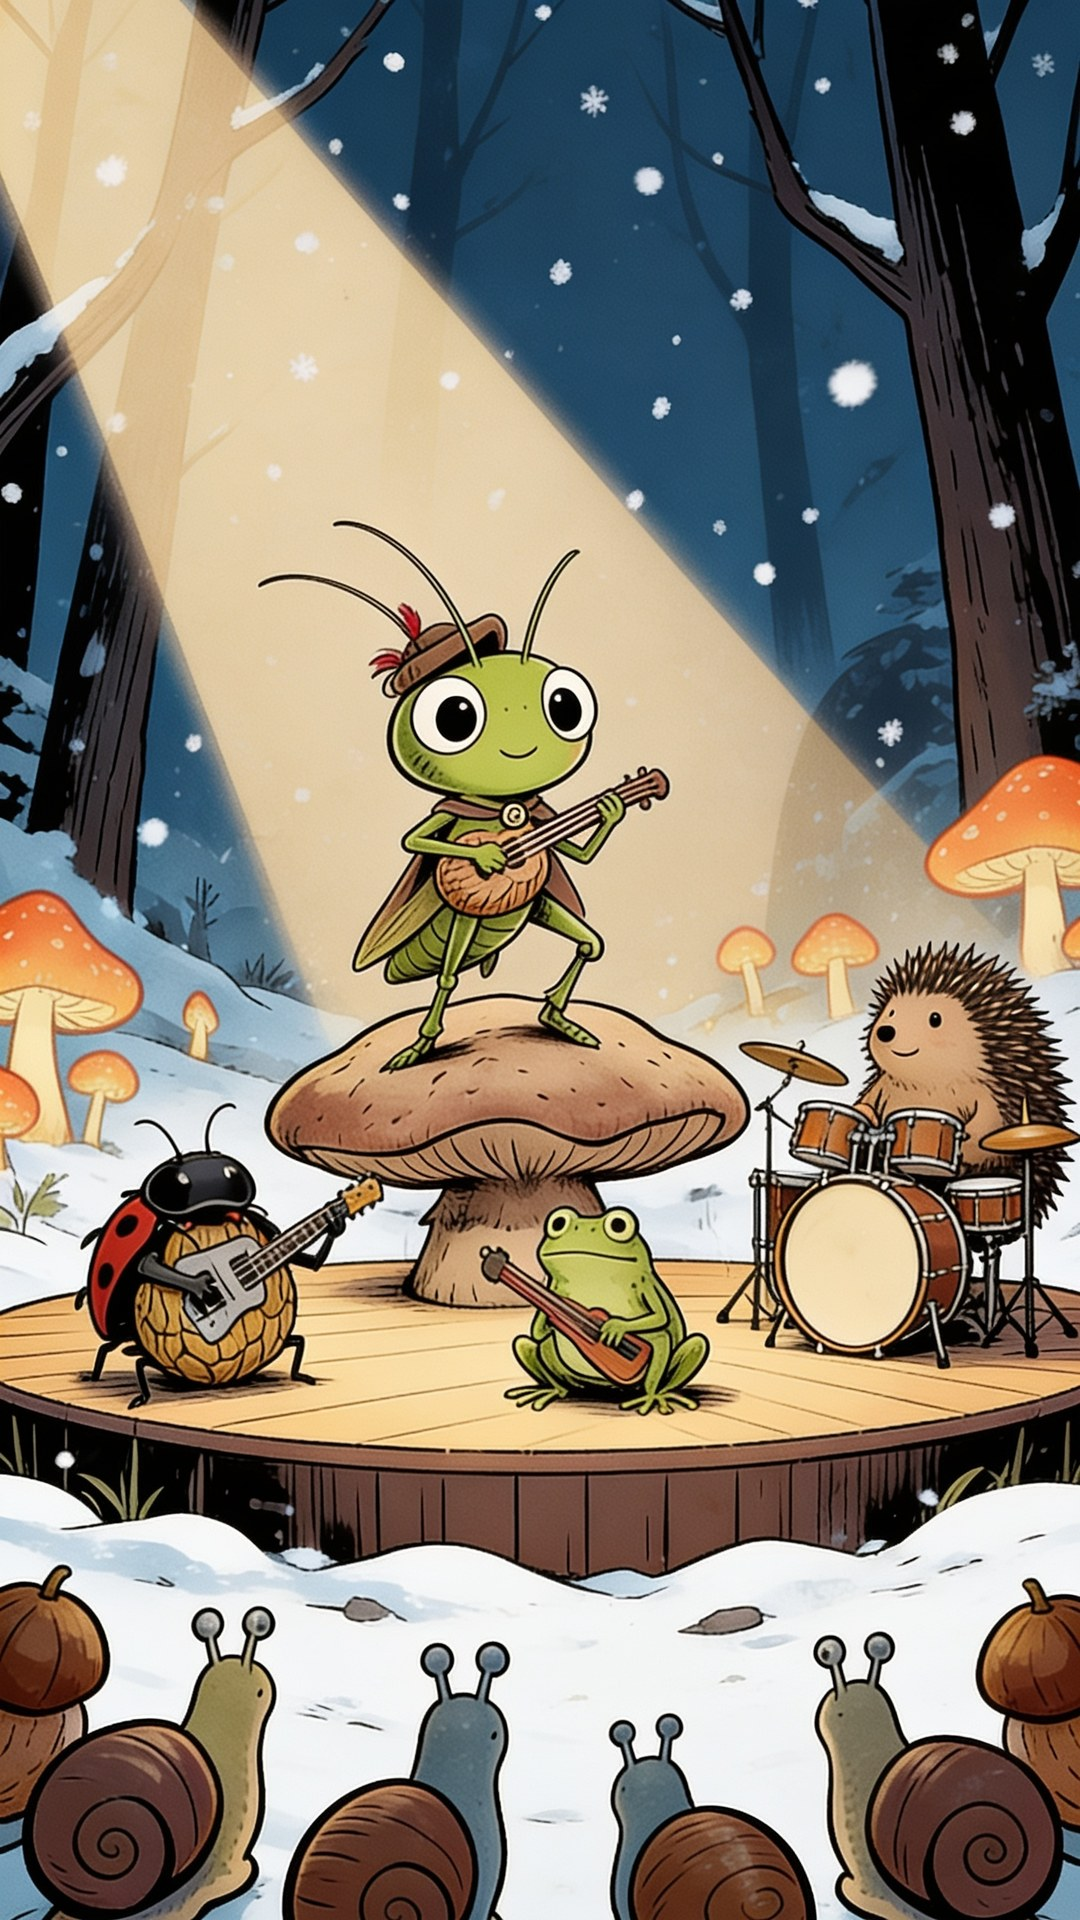
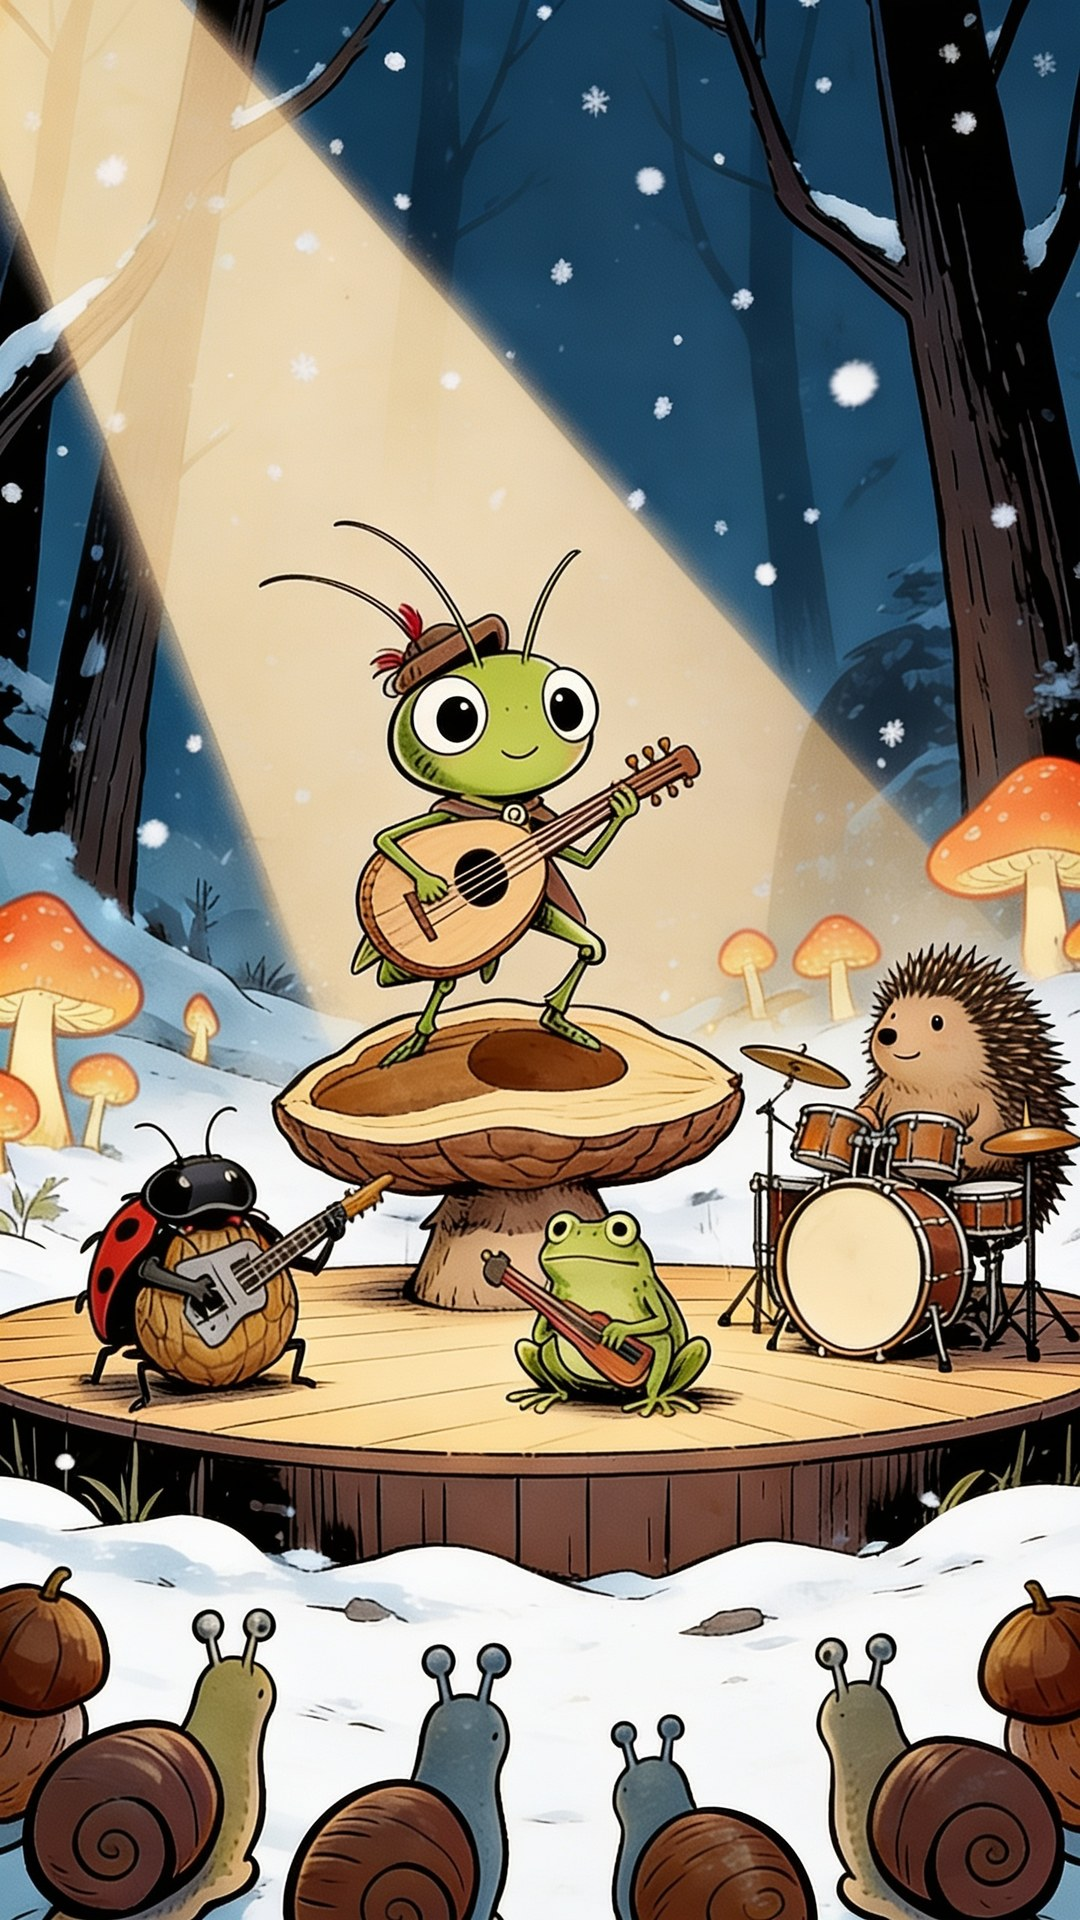
Quest 24: Zirpia Laute: 6 Bilder korrigiert
Claude-Session: https://claude.ai/code/session_013ksHH1RN3knNHjnsFznGtM

diff --git a/index.html b/index.html
@@ -9,7 +9,7 @@
 <meta name="robots" content="noindex">
 <link rel="preconnect" href="https://fonts.googleapis.com"><link rel="preconnect" href="https://fonts.gstatic.com" crossorigin>
 <link href="https://fonts.googleapis.com/css2?family=Grenze+Gotisch:wght@500;700;800&family=Alegreya:ital,wght@0,400;0,500;0,700;1,400&family=Alegreya+SC:wght@500;700&display=swap" rel="stylesheet">
-<link rel="stylesheet" href="style.css?v=1794149832">
+<link rel="stylesheet" href="style.css?v=1794151930">
 </head>
 <body>
 
@@ -59,25 +59,25 @@
 <div id="sheet" class="ovl sheet"></div>
 <div id="toast" class="toast"></div>
 
-<script src="gate.js?v=1794149832"></script>
-<script src="engine.js?v=1794149832"></script>
-<script src="scene.js?v=1794149832"></script>
-<script src="dice.js?v=1794149832"></script>
-<script src="items.js?v=1794149832"></script>
-<script src="battle.js?v=1794149832"></script>
-<script src="ui.js?v=1794149832"></script>
-<script src="slyr.js?v=1794149832"></script>
-<script src="games.js?v=1794149832"></script>
-<script src="bossgames.js?v=1794149832"></script>
-<script src="films.js?v=1794149832"></script>
-<script src="days1.js?v=1794149832"></script>
-<script src="days2.js?v=1794149832"></script>
-<script src="days3.js?v=1794149832"></script>
-<script src="days4.js?v=1794149832"></script>
-<script src="hero.js?v=1794149832"></script>
-<script src="qrcode.js?v=1794149832"></script>
-<script src="komplize.js?v=1794149832"></script>
-<script src="urkunde.js?v=1794149832"></script>
-<script src="main.js?v=1794149832"></script>
+<script src="gate.js?v=1794151930"></script>
+<script src="engine.js?v=1794151930"></script>
+<script src="scene.js?v=1794151930"></script>
+<script src="dice.js?v=1794151930"></script>
+<script src="items.js?v=1794151930"></script>
+<script src="battle.js?v=1794151930"></script>
+<script src="ui.js?v=1794151930"></script>
+<script src="slyr.js?v=1794151930"></script>
+<script src="games.js?v=1794151930"></script>
+<script src="bossgames.js?v=1794151930"></script>
+<script src="films.js?v=1794151930"></script>
+<script src="days1.js?v=1794151930"></script>
+<script src="days2.js?v=1794151930"></script>
+<script src="days3.js?v=1794151930"></script>
+<script src="days4.js?v=1794151930"></script>
+<script src="hero.js?v=1794151930"></script>
+<script src="qrcode.js?v=1794151930"></script>
+<script src="komplize.js?v=1794151930"></script>
+<script src="urkunde.js?v=1794151930"></script>
+<script src="main.js?v=1794151930"></script>
 </body>
 </html>
